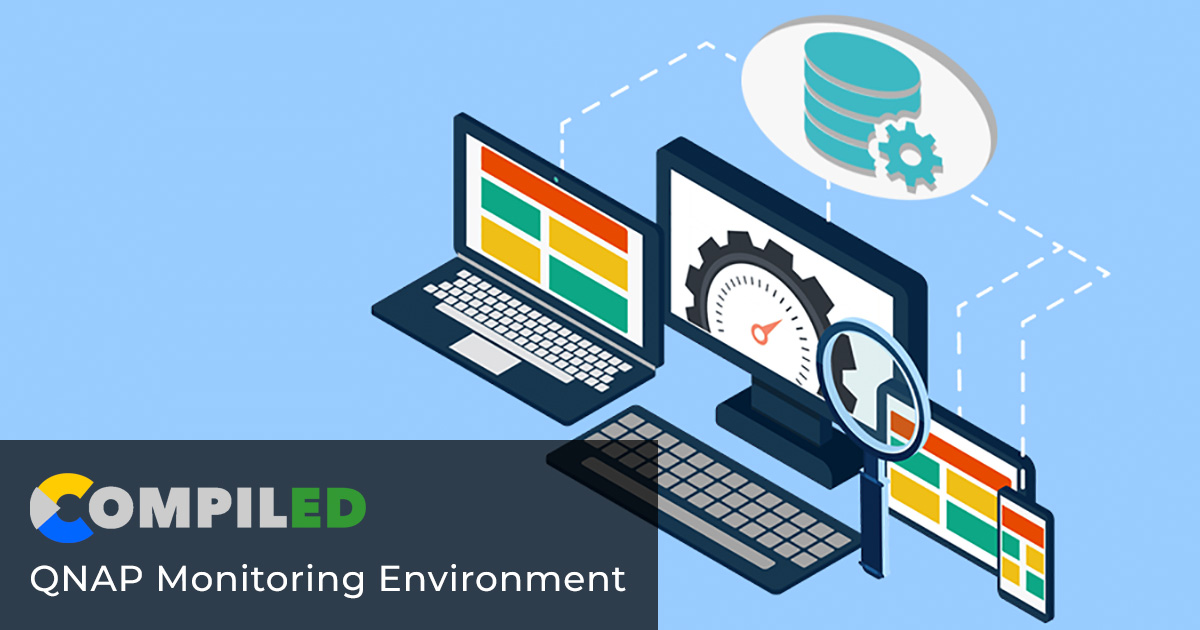
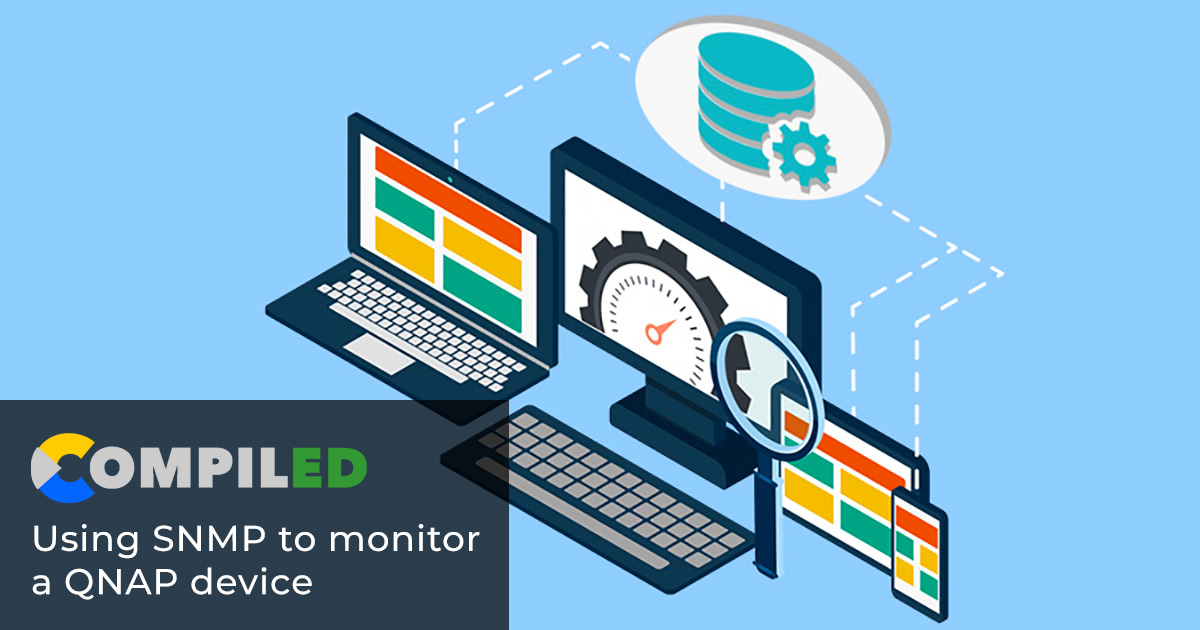
A MIB file correction, and new socmedia image with fixed title

diff --git a/content/articles/qnap-monitoring-environment.md b/content/articles/qnap-monitoring-environment.md
@@ -30,8 +30,8 @@ Protocol (SNMP), which can do just that.
 
 It is a network protocol for collecting information about managed
 devices.  Traditionally it is used by many types of networking equipment,
-including switches, routers, etc.  It’s paired with MIB (Management
-Information Base) file, which is a collection of information organized
+including switches, routers, etc.  It’s paired with a MIB file (Management
+Information Base file), which is a collection of information organized
 hierarchically.  SNMP uses the MIB files to know which information to poll, as
 it has definitions of the properties of the managed object of the device.  The
 objects identifiers, or OID, uniquely identify objects within the MIB hiearchy,
